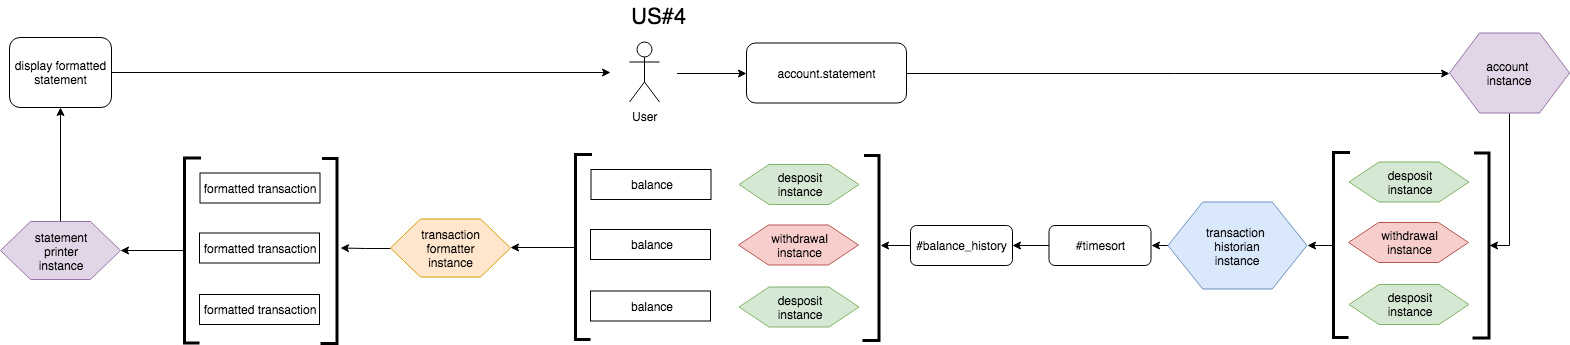
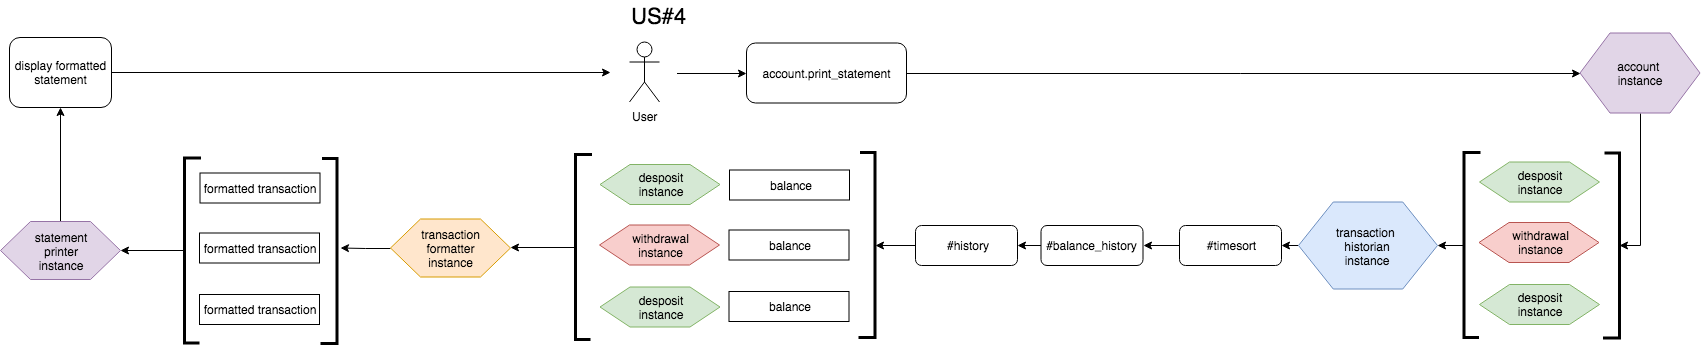
README updated, minor refactor on tests

diff --git a/test/test_account.py b/test/test_account.py
@@ -13,6 +13,16 @@ class MockPrinter(object):
     def print_statement(self, transaction_list):
         print('This is a printed statement')
 
+class MyOutput(object):
+    def __init__(self):
+        self.data = []
+
+    def write(self, s):
+        self.data.append(s)
+
+    def __str__(self):
+        return "".join(self.data)
+
 class AccountTestSuite(unittest.TestCase):
 
     def setUp(self):
@@ -51,40 +61,45 @@ class AccountTestSuite(unittest.TestCase):
         self.assertEqual(self.account.get_values(), [100, -100])
 
     def test_account_seeing_balance_no_transactions(self):
-        self.assertEqual( self.account.balance(), 0)
+        stdout_org = sys.stdout
+        my_stdout = MyOutput()
+        try:
+            sys.stdout = my_stdout
+            self.account.balance()
+        finally:
+            sys.stdout = stdout_org
+
+        self.assertEqual( str(my_stdout), "0\n")
 
     def test_account_seeing_balance_one_deposits(self):
         self.account.deposit(100)
-        self.assertEqual( self.account.balance(), 100)
+        stdout_org = sys.stdout
+        my_stdout = MyOutput()
+        try:
+            sys.stdout = my_stdout
+            self.account.balance()
+        finally:
+            sys.stdout = stdout_org
 
-    def test_account_seeing_balance_two_deposits(self):
-        self.account.deposit(100)
-        self.account.deposit(50)
-        self.assertEqual( self.account.balance(), 150)
+        self.assertEqual( str(my_stdout), "100\n")
 
     def test_account_seeing_balance_deposits_and_withdrawals(self):
         self.account.deposit(100)
         self.account.deposit(100)
         self.account.withdraw(-100)
         self.account.withdraw(-100)
-        self.assertEqual( self.account.balance(), 0)
 
-    def test_account_seeing_balance_two_withdrawals(self):
-        self.account.withdraw(-100)
-        self.account.withdraw(-100)
-        self.assertEqual( self.account.balance(), -200)
+        stdout_org = sys.stdout
+        my_stdout = MyOutput()
+        try:
+            sys.stdout = my_stdout
+            self.account.balance()
+        finally:
+            sys.stdout = stdout_org
+
+        self.assertEqual( str(my_stdout), "0\n")
 
     def test_account_printing_statement_prints_account_to_shell(self):
-        class MyOutput(object):
-            def __init__(self):
-                self.data = []
-
-            def write(self, s):
-                self.data.append(s)
-
-            def __str__(self):
-                return "".join(self.data)
-
         stdout_org = sys.stdout
         my_stdout = MyOutput()
         try:

diff --git a/test/test_statement_printer.py b/test/test_statement_printer.py
@@ -13,6 +13,16 @@ class MockRowFormatter(object):
     def format(self, transaction, balance):
         return transaction + balance
 
+class MyOutput(object):
+    def __init__(self):
+        self.data = []
+
+    def write(self, s):
+        self.data.append(s)
+
+    def __str__(self):
+        return "".join(self.data)
+
 class StatementPrinterTestSuite(unittest.TestCase):
 
     def setUp(self):
@@ -24,16 +34,6 @@ class StatementPrinterTestSuite(unittest.TestCase):
         self.statement = header + "\n" + statement_row +"\n"
 
     def test_statement_printer_prints_statement_to_shell(self):
-        class MyOutput(object):
-            def __init__(self):
-                self.data = []
-
-            def write(self, s):
-                self.data.append(s)
-
-            def __str__(self):
-                return "".join(self.data)
-
         stdout_org = sys.stdout
         my_stdout = MyOutput()
         try:

diff --git a/account.py b/account.py
@@ -4,7 +4,7 @@ from statement_printer import StatementPrinter
 from functools import reduce
 
 class Account(object):
-
+    
     def __init__(self,
         deposit_class=Deposit,
         withdrawal_class=Withdrawal,
@@ -29,7 +29,7 @@ class Account(object):
         return [x.value for x in self.transactions()]
 
     def balance(self):
-        return reduce(lambda x, y: x + y, self.get_values(), 0)
+        print (reduce(lambda x, y: x + y, self.get_values(), 0))
 
     def print_statement(self):
         self.printer.print_statement(self.transactions())

diff --git a/testdrive.py b/testdrive.py
@@ -1,10 +1,3 @@
 from account import Account
-from transaction_historian import TransactionHistorian
-from statement_printer import StatementPrinter
 
-ac = Account()
-th = TransactionHistorian()
-sp = StatementPrinter()
-ac.deposit(10)
-ac.deposit(10)
-trans = ac.transactions()
+acc = Account()

diff --git a/README.md b/README.md
@@ -1,3 +1,60 @@
+# Introduction
+
+A simple simulation of a bank account, allowing deposit, withdrawal, balance
+checking, and statement display.
+
+### Tech
+
+Written in Python 3.6.5. All packages used are included as default in the main
+python install. Tests were written in the default python testing library,
+unittest.
+
+### Content
+
+| dir: | contents; |
+|--|--|
+| root | class logic ([*].py), README and README images |
+| test | class tests (test_[*].py) |
+
+# Instructions For Use
+
+## Getting Started
+
+1. Install Python 3 if not already installed ([Click here to visit the Python website](https://www.python.org/downloads/))
+
+2. Clone or download/unzip this repository into a local folder.
+
+3. Enter the python console by typing `Python3` into a terminal from the root
+folder.
+
+4. To get started, import the Account class using `from account import Account`,
+then make a new account using `[account name] = Account()`, where [account name]
+is the name you want to call your account.
+
+5. To make a deposit, type in `[account name].deposit([amount])`, where [amount]
+is the amount you wish to deposit.
+
+6. To make withdrawal, type in `[account name].withdraw([amount])`, where [amount]
+is the amount you wish to withdraw.
+
+7. To see your balance, type in `[account name].balance()`
+
+8. To see a printed statement, type in `[account name].print_statement()`
+
+## Tests
+
+All tests (found in the `test` directory) were written in `unittest`, pythons
+built-in testing framework. To run all tests, from the main terminal (NB bash terminal,
+not python terminal!) type in `python -m unittest discover test -v`. The name of each test
+and the results (pass = 'ok', fail == 'FAIL') will be printed to the terminal.
+
+To run individual tests, navigate to the test directory and then run
+`python -m unittest test_account.py -v` from the bash terminal.
+
+NB the `-v` flag is optional, and specifies verbose mode (printing test names and
+results). Without the -v flag, you will just see a general 'ok' method. 
+
+# === DEVELOPMENT ===
 
 ## Modelling
 
